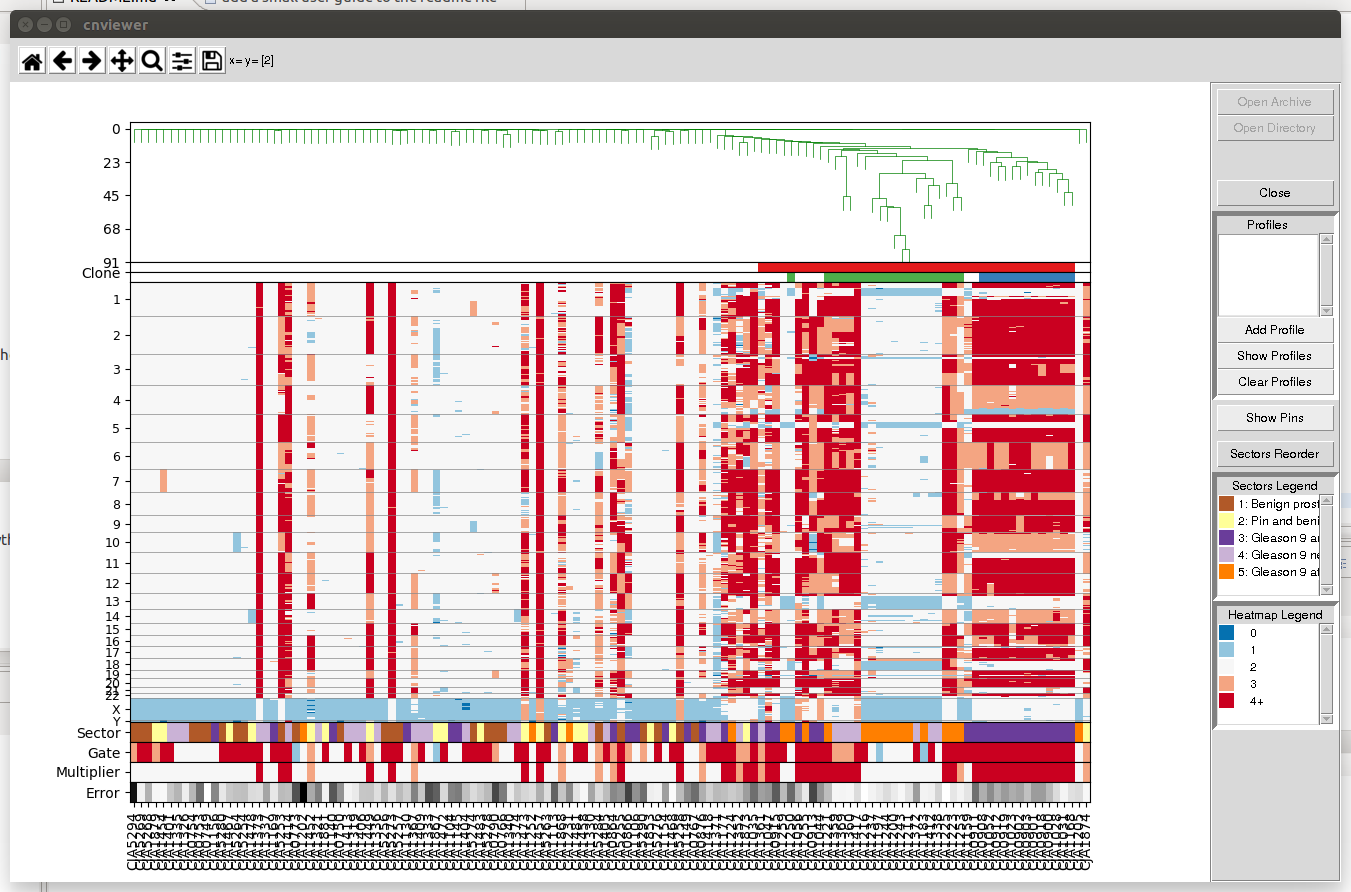
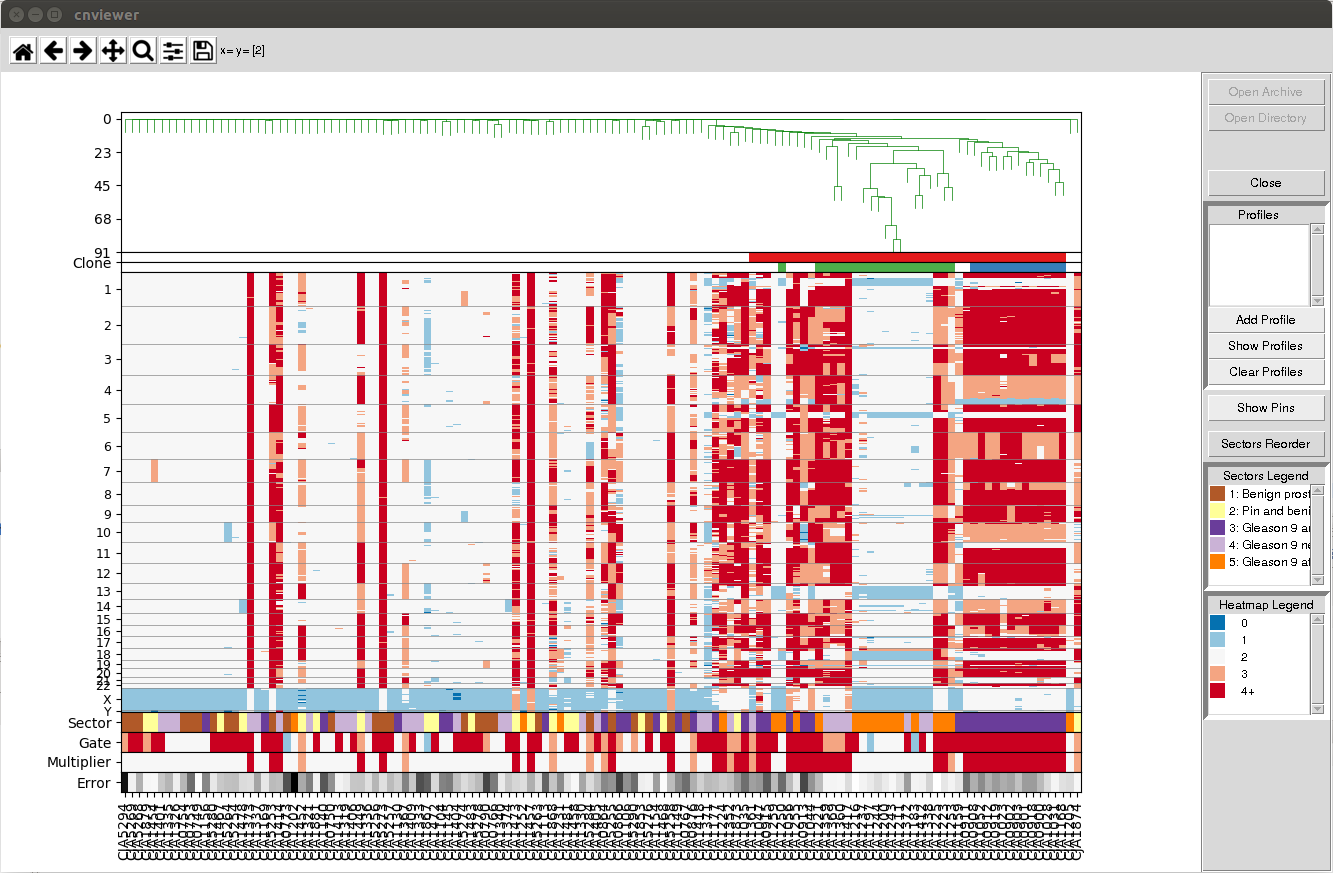
# WARNING: head commit changed in the meantime
command executor is broken 

Task-Url: https://app.asana.com/0/185270059359143/293901296626733

diff --git a/cnviewer/tkviews/sectors_ui.py b/cnviewer/tkviews/sectors_ui.py
@@ -22,7 +22,7 @@ class SectorsUi(BaseUi):
             row=40, column=0, sticky=(tk.N, tk.S, tk.E, tk.W))
 
         self.show_sectors = ttk.Button(
-            master=frame, text="Sectors Reorder", command=self._show_sectors)
+            master=frame, text="Order by Sector", command=self._show_sectors)
         self.show_sectors.config(state=tk.DISABLED)
 
         self.show_sectors.grid(

diff --git a/cnviewer/tkviews/pinmat_ui.py b/cnviewer/tkviews/pinmat_ui.py
@@ -21,7 +21,7 @@ class PinmatUi(BaseUi):
             row=30, column=0, sticky=(tk.N, tk.S, tk.E, tk.W))
 
         self.show_pinmat = ttk.Button(
-            master=frame, text="Show Pins", command=self._show_pinmat)
+            master=frame, text="Feature View", command=self._show_pinmat)
         self.show_pinmat.config(state=tk.DISABLED)
 
         self.show_pinmat.grid(
